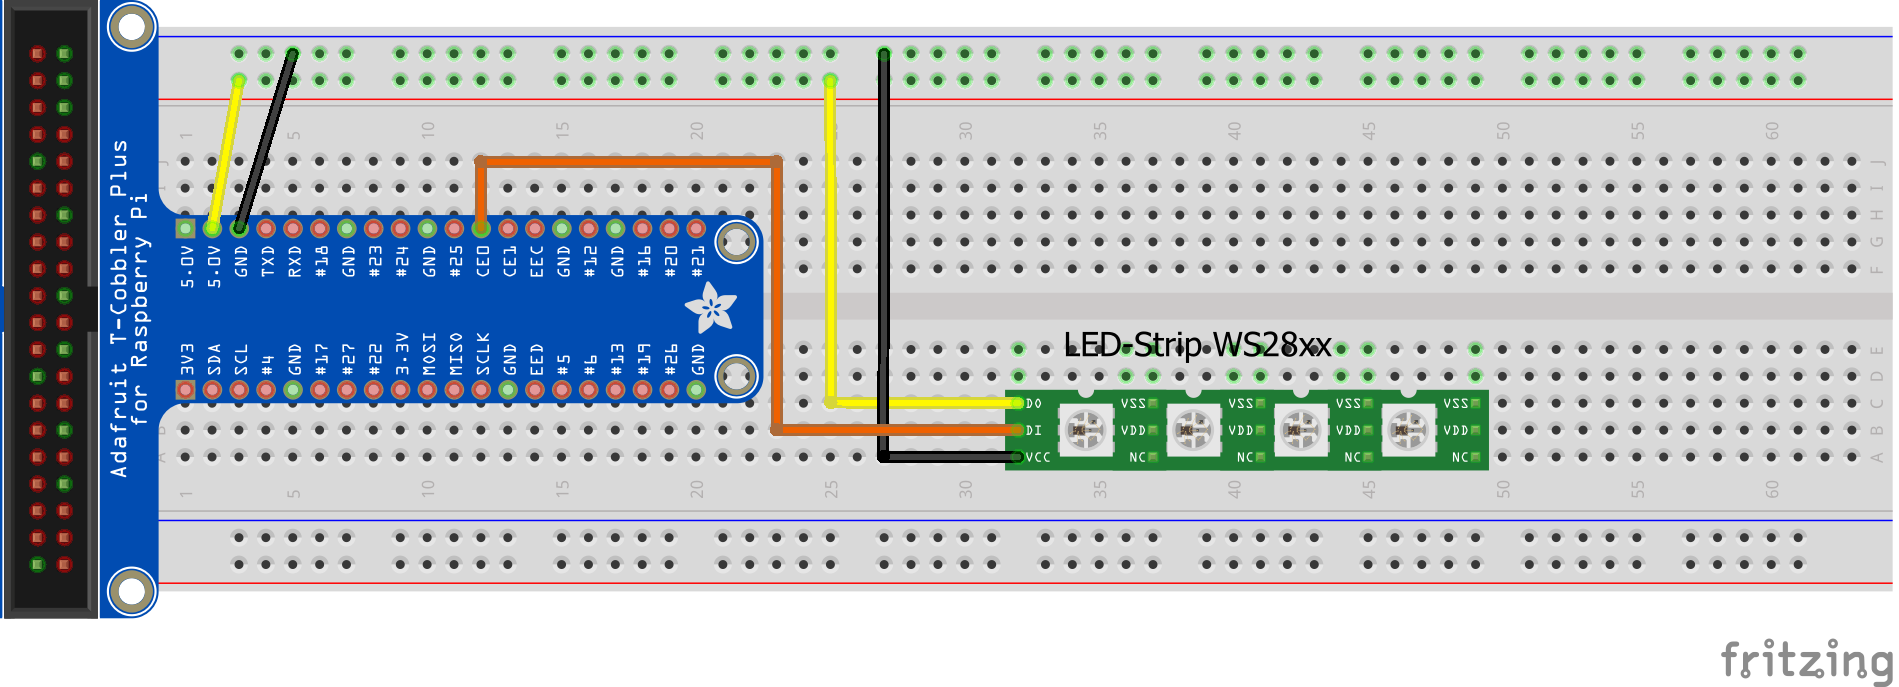
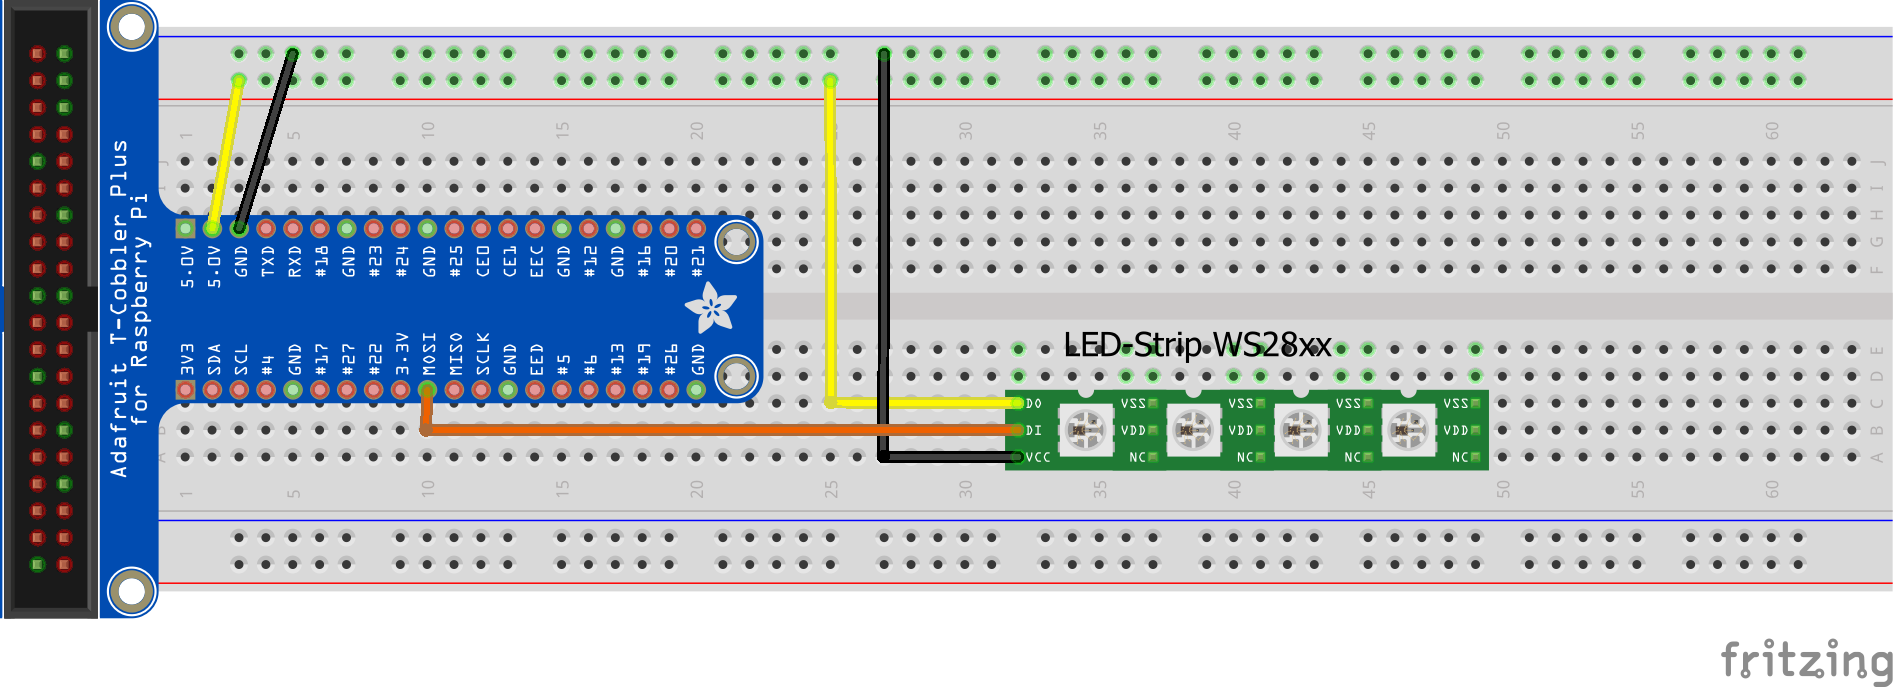
using mosi pin

Changed region(s): [[0.2175, 0.214, 0.435, 0.6419], [0.0311, 0.4891, 0.0621, 0.5197], [0.0, 0.4279, 0.0311, 0.4585]]

diff --git a/content/documentation/device-examples/LEDStrip.md b/content/documentation/device-examples/LEDStrip.md
@@ -10,7 +10,7 @@ The Template Class gives you the option to set the LED's of the strip to a desir
 
 {{% notice note %}}
 Make sure to check if SPI is enabled in your RaspberryPI.
-Check the SPI Address. Default is GPIO 8 (#24).
+Check the SPI Address. Default is "SPI0 MOSI" Pin (#19).
 {{% /notice %}}
 
 ### Layout
@@ -24,53 +24,35 @@ int pixels = 10;
 final var ledstrip = new LEDStrip(pi4j, pixels, 127);
 
 //set them all off, so nothing is shining
-logger.info("Starting with setting all leds off");
+logInfo("Starting with setting all leds off");
 ledstrip.allOff();
 
-for(int i = 0; i < 5; i++){
+logInfo("setting the leds to RED");
+ledstrip.setStripColor(PixelColor.RED);
+ledstrip.render();
+delay(3000);
 
-	//increment red value
-	logger.info("setting the leds to a shade of red");
-	int red = 0;
-	for (int j = 0; j < pixels; j++) {
-		ledstrip.setPixelColor(j, red);
-		red += 255 / pixels;
-	}
-	//show it on the strip
-	ledstrip.render();
-	delay(2000);
+logInfo("setting the leds to Light Blue");
+ledstrip.setStripColor(PixelColor.LIGHT_BLUE);
+ledstrip.render();
+delay(3000);
 
-	//increment green value
-	logger.info("setting the leds to a shade of green");
-	int green = 0;
-	for (int j = 0; j < pixels; j++) {
-		ledstrip.setPixelColor(j, green);
-		green += 255 / pixels;
-	}
-	//show it on the strip
-	ledstrip.render();
-	delay(2000);
+logInfo("setting the first led to Purple");
+ledstrip.setPixelColor(0, PixelColor.PURPLE);
+ledstrip.render();
+delay(3000);
 
-	//increment blue value
-	logger.info("setting the leds to a shade of blue");
-	int blue = 0;
-	for (int j = 0; j < pixels; j++) {
-		ledstrip.setPixelColor(j, blue);
-		blue += 255 / pixels;
-	}
-	//show it on the strip
-	ledstrip.render();
-	delay(2000);
-}
-
-logger.info("setting the leds to purple");
-ledstrip.setStripColor(PixelColor.PURPLE);
+logInfo("setting the brightness to full and just show the first led as White");
+ledstrip.allOff();
+ledstrip.setBrightness(255);
+ledstrip.setPixelColor(0, PixelColor.WHITE);
 ledstrip.render();
 delay(3000);
 
 //finishing and closing
 ledstrip.close();
-logger.info("closing the app");
+logInfo("closing the app");
+logInfo("Color "+ ledstrip.getPixelColor(0));
 ```
 
 ### Further application
